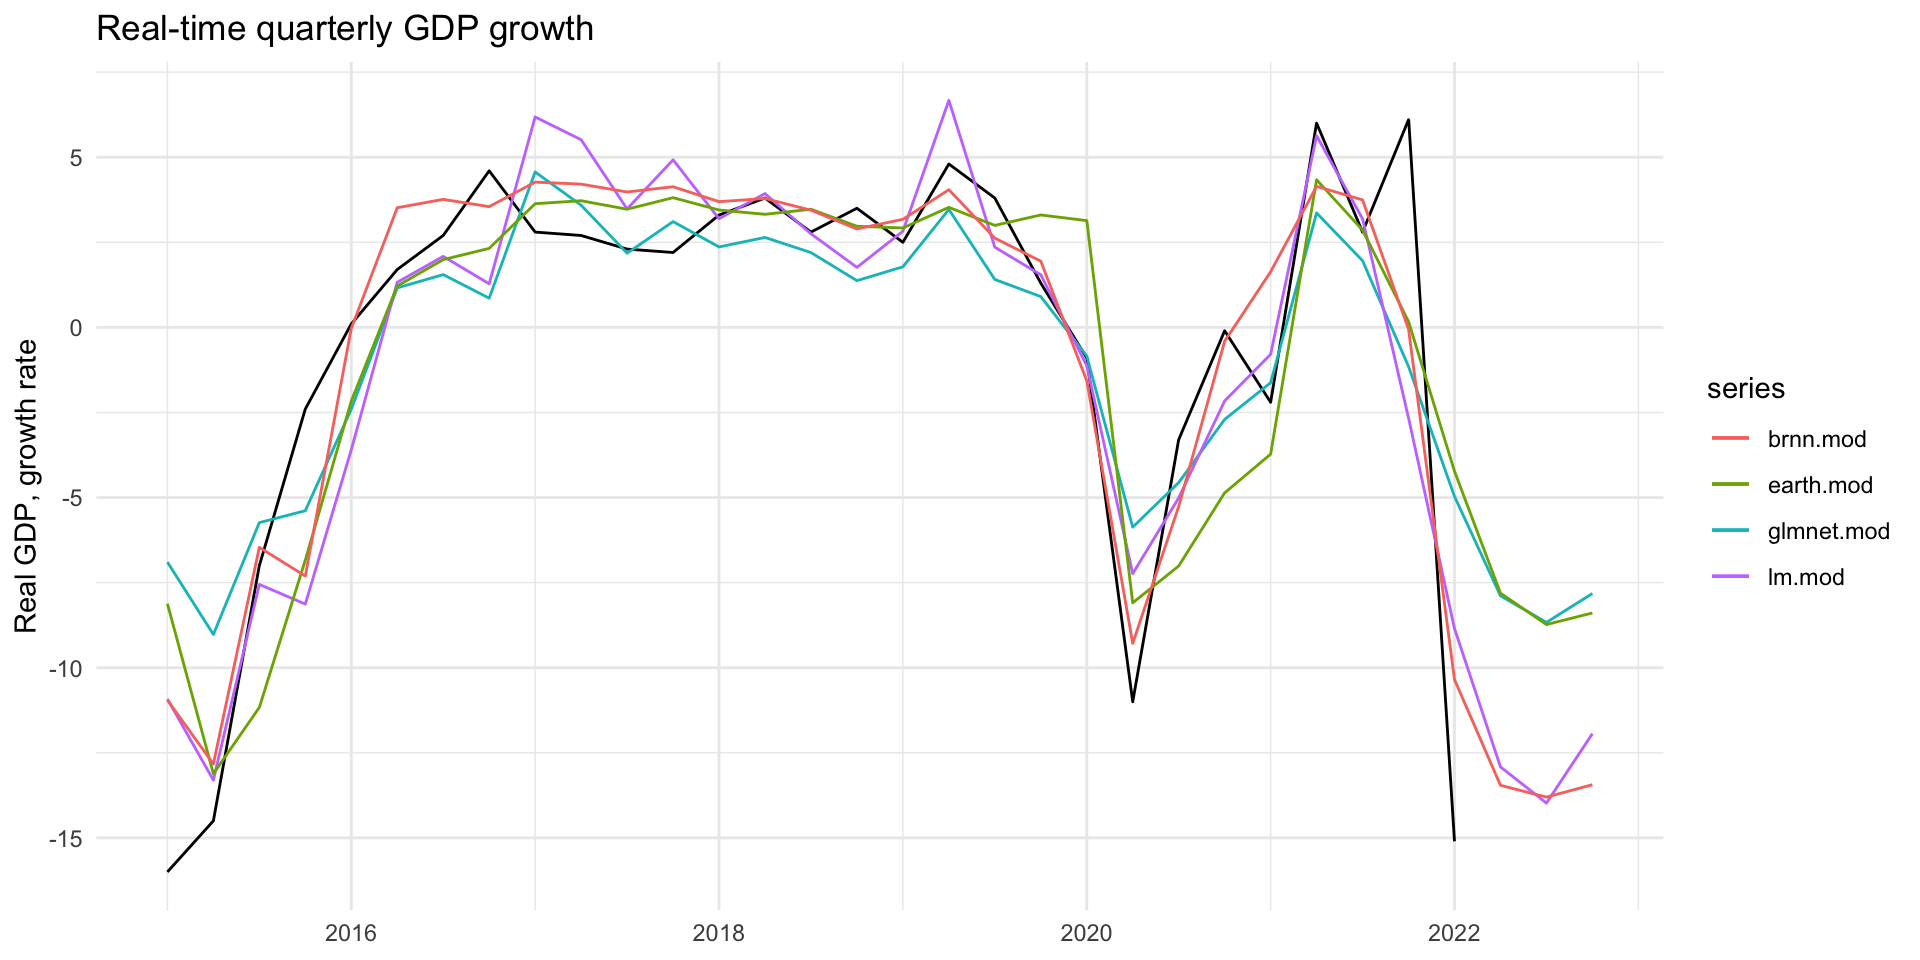
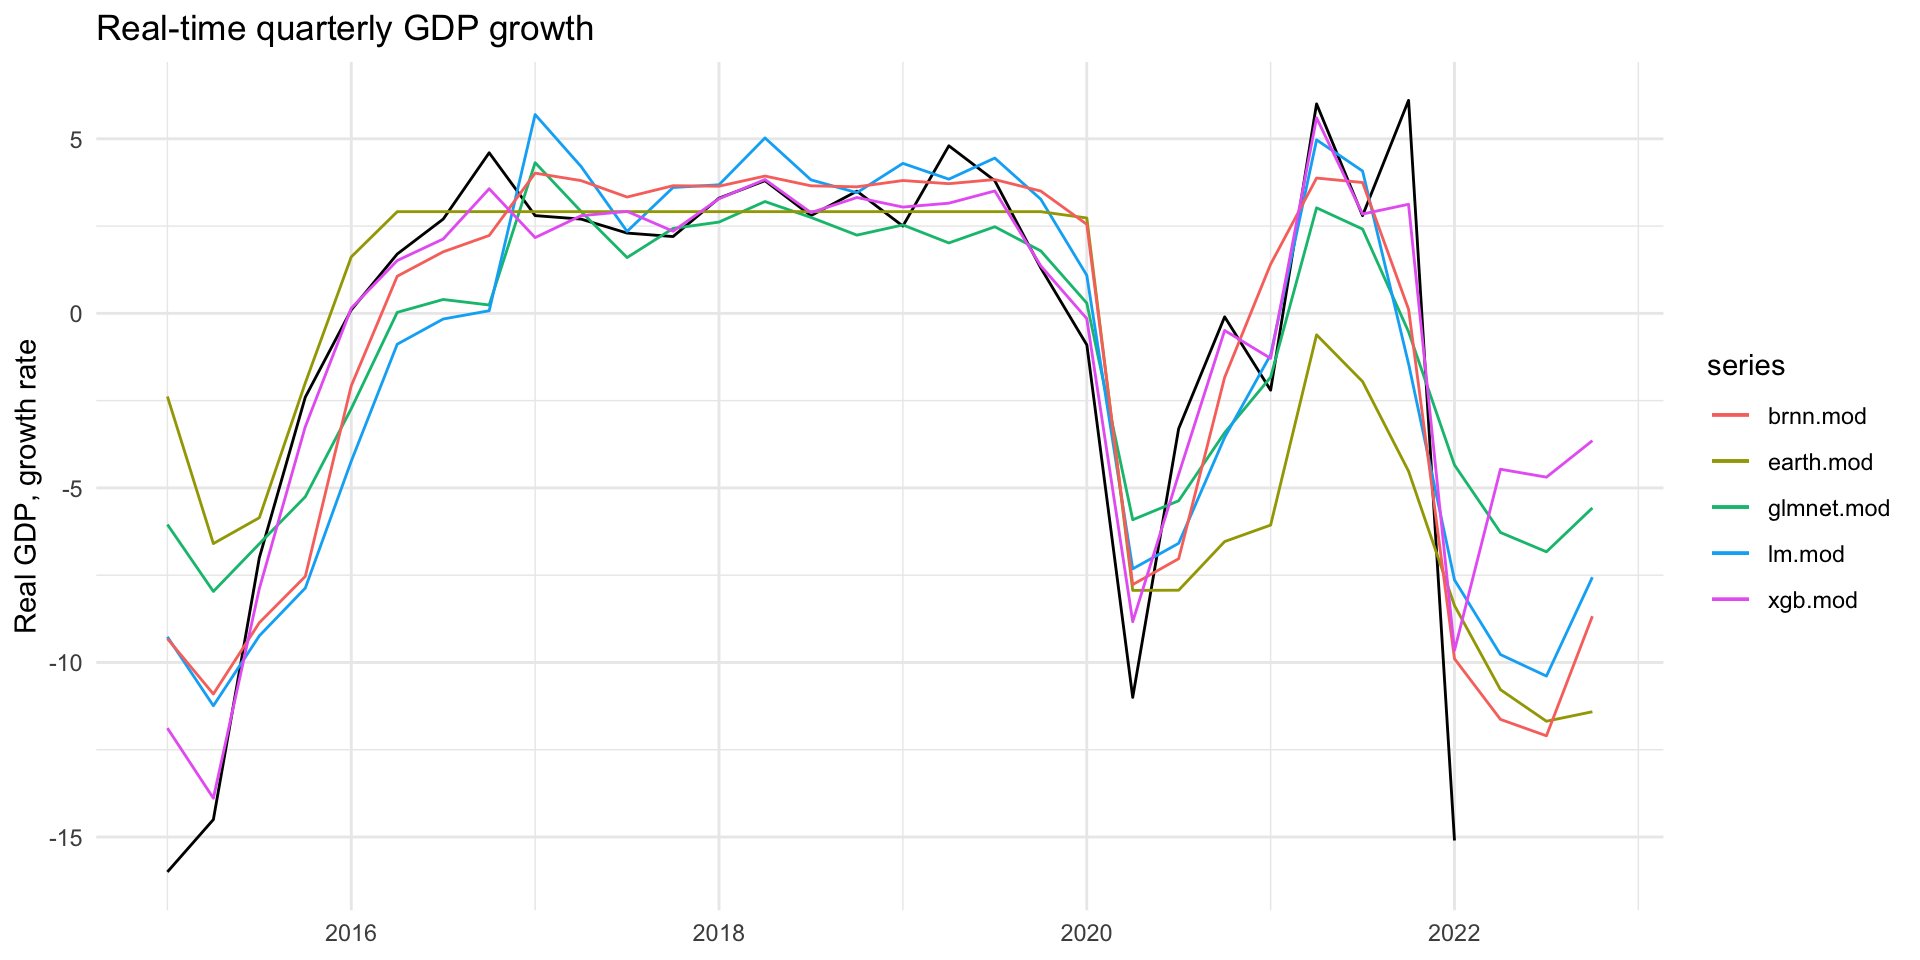
Add post presentation valuation

diff --git a/docs/index.html b/docs/index.html
@@ -237,6 +237,7 @@
     }
     .reveal .slide:not(.center) {
       height: 100%;
+      overflow-y: auto;
     }
     .reveal .slide.scrollable {
       overflow-y: auto;
@@ -322,6 +323,7 @@
   <h1 class="title">How much Ukrainian economy will contract?</h1>
   <p class="subtitle">(Spoiler: a lot)</p>
   <p class="author">Mykyta Horovoi</p>
+  <p class="date">17/06/2022</p>
 </section>
 
 <section id="the-gdp-will-shrink" class="slide level2">
@@ -360,7 +362,7 @@
 
 </div>
 <div class="fragment fade-in">
-<p>… by -38.93 % on average.</p>
+<p>… by -33.8 % on average.</p>
 </div>
 <div class="fragment fade-in">
 <p>Thank you for your attention!</p>
@@ -409,7 +411,7 @@
 <section id="the-data" class="slide level2">
 <h2>The Data</h2>
 <ul>
-<li>2015Q1 to 2022Q1</li>
+<li>2015Q1 to 2022Q1 (training set)</li>
 <li>Quarterly, seasonaly adjusted</li>
 <li>17 macro indicators</li>
 <li>Principal components transformation</li>
@@ -417,7 +419,10 @@
 </section>
 <section id="forecasting-perfomance-of-models" class="slide level2">
 <h2>Forecasting perfomance of models</h2>
-<p>Elastic-Net and Gradient boosting provide the best results</p>
+<ul>
+<li>Gradient boosting method provides the best results at the training set</li>
+<li>It’s impossible to calculate the accuracy on a validation set at the time of this presentation (17 June 2022)</li>
+</ul>
 <div class="panel-tabset">
 <ul id="tabset-1" class="panel-tabset-tabby"><li><a data-tabby-default="" href="#tabset-1-1">Plot</a></li><li><a href="#tabset-1-2">Test accuracy</a></li></ul>
 <div class="tab-content">
@@ -444,31 +449,38 @@
 <tbody>
 <tr class="odd">
 <td style="text-align: left;">glmnet.mod</td>
-<td style="text-align: right;">3.54</td>
-<td style="text-align: right;">2.43</td>
-<td style="text-align: right;">17.37</td>
-<td style="text-align: right;">217.63</td>
+<td style="text-align: right;">3.77</td>
+<td style="text-align: right;">2.54</td>
+<td style="text-align: right;">8.51</td>
+<td style="text-align: right;">257.52</td>
 </tr>
 <tr class="even">
 <td style="text-align: left;">lm.mod</td>
-<td style="text-align: right;">3.01</td>
-<td style="text-align: right;">2.12</td>
-<td style="text-align: right;">47.06</td>
-<td style="text-align: right;">245.18</td>
+<td style="text-align: right;">3.35</td>
+<td style="text-align: right;">2.64</td>
+<td style="text-align: right;">29.76</td>
+<td style="text-align: right;">333.48</td>
 </tr>
 <tr class="odd">
 <td style="text-align: left;">earth.mod</td>
-<td style="text-align: right;">3.45</td>
-<td style="text-align: right;">2.42</td>
-<td style="text-align: right;">-82.89</td>
-<td style="text-align: right;">302.09</td>
+<td style="text-align: right;">4.51</td>
+<td style="text-align: right;">2.98</td>
+<td style="text-align: right;">-252.10</td>
+<td style="text-align: right;">338.60</td>
 </tr>
 <tr class="even">
 <td style="text-align: left;">brnn.mod</td>
-<td style="text-align: right;">2.35</td>
-<td style="text-align: right;">1.72</td>
-<td style="text-align: right;">-20.10</td>
-<td style="text-align: right;">63.12</td>
+<td style="text-align: right;">2.84</td>
+<td style="text-align: right;">2.22</td>
+<td style="text-align: right;">18.85</td>
+<td style="text-align: right;">197.16</td>
+</tr>
+<tr class="odd">
+<td style="text-align: left;">xgb.mod</td>
+<td style="text-align: right;">1.56</td>
+<td style="text-align: right;">0.93</td>
+<td style="text-align: right;">-7.06</td>
+<td style="text-align: right;">33.99</td>
 </tr>
 </tbody>
 </table>
@@ -480,7 +492,9 @@
 </section>
 <section id="gdp-contraction" class="slide level2 smaller">
 <h2>GDP contraction</h2>
-<p>The mean estimated Real GDP shrinkage due to the war is -38.93 %.</p>
+<ul>
+<li>The mean estimated Real GDP shrinkage due to the war is -33.8 %.</li>
+</ul>
 <div class="cell">
 <div class="cell-output-display">
 <table>
@@ -491,28 +505,38 @@
 <th style="text-align: right;">lm.mod</th>
 <th style="text-align: right;">earth.mod</th>
 <th style="text-align: right;">brnn.mod</th>
+<th style="text-align: right;">xgb.mod</th>
 <th style="text-align: right;">arima</th>
 </tr>
 </thead>
 <tbody>
 <tr class="odd">
 <td style="text-align: left;">contraction</td>
-<td style="text-align: right;">-29.34</td>
-<td style="text-align: right;">-47.68</td>
-<td style="text-align: right;">-29.16</td>
-<td style="text-align: right;">-51.04</td>
+<td style="text-align: right;">-23.02</td>
+<td style="text-align: right;">-35.36</td>
+<td style="text-align: right;">-42.24</td>
+<td style="text-align: right;">-42.3</td>
+<td style="text-align: right;">-22.46</td>
 <td style="text-align: right;">-37.45</td>
 </tr>
 </tbody>
 </table>
 </div>
 </div>
+<ul>
+<li><strong>Post presentation update (27 March 2023):</strong>
+<ul>
+<li>According to preliminary estimates of the Ministry of Economy of Ukraine, the GDP decline in 2022 is estimated at 30.4% <sup>1</sup>.</li>
+<li>Thus, the forecast error on a validation data is <strong>-3.4 %</strong>.</li>
+</ul></li>
+</ul>
 
-
-<img src="images/KSE.png" class="slide-logo r-stretch"><div class="footer footer-default">
+<p><img src="images/KSE.png" class="slide-logo"></p>
+<div class="footer footer-default">
 
 </div>
-</section>
+<aside><ol class="aside-footnotes"><li id="fn1" role="doc-endnote"><p><a href="https://www.kmu.gov.ua/en/news/minekonomiky-poperedno-otsiniuie-padinnia-vvp-v-2022-rotsi-na-rivni-304">Ministry of Economy of Ukraine, posted 05 January 2023</a></p></li></ol></aside></section>
+
     </div>
   </div>
 
